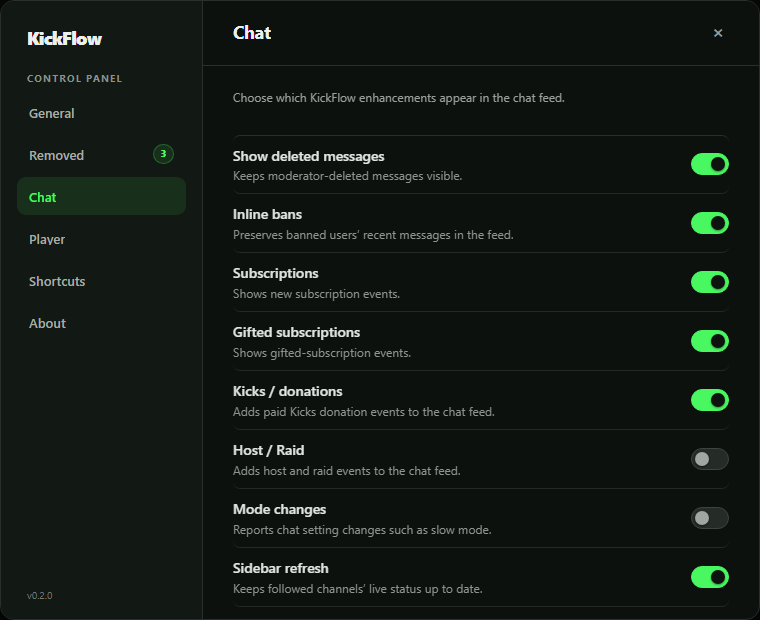
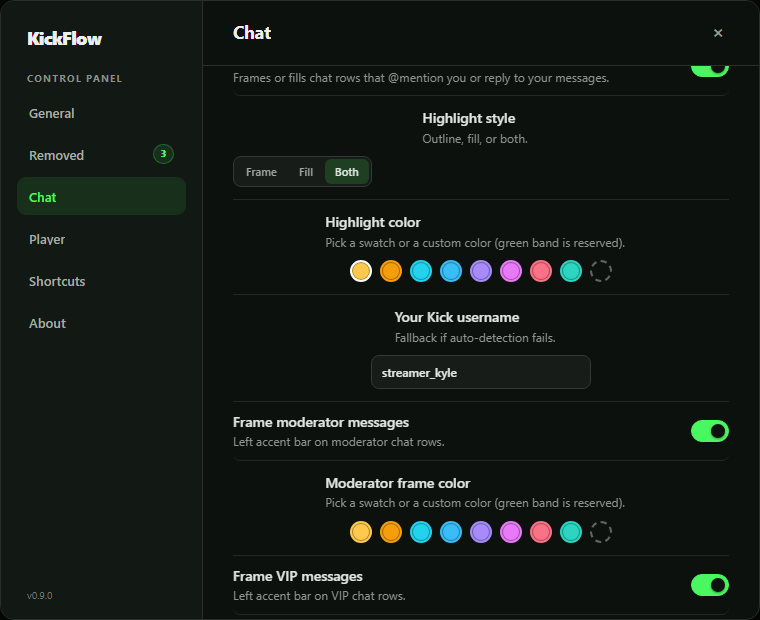
Docs: document chat highlights, refresh stale screenshots and version references
- New section covering the mention/reply/mod/VIP highlight feature, each layer independently toggleable and colorable, with a real offline-rendered screenshot of all eight states
- Regenerated Chat and About settings screenshots to show the new highlight controls and the correct version
- Removed hardcoded version numbers from prose; the release archive link now points to the evergreen Releases page instead of a per-version URL

diff --git a/README.md b/README.md
@@ -17,6 +17,8 @@ KickFlow keeps the conversation understandable when moderation removes content:
 - KickFlow-chat mode renders its own safe message list;
 - the Removed tab provides a session-scoped ledger of deleted, timed-out, and banned messages.
 
+On Kick's native Active Chatters list, KickFlow adds a removed-count badge when the session ledger contains moderation evidence for that user. Selecting the badge opens Removed filtered to that person; Kick's native row click and moderation controls remain unchanged.
+
 ![Preserved messages and channel events in English](docs/screenshots/chat-preservation-and-events.png)
 
 _Offline component render of the production message renderer and CSS. All messages and identities are synthetic._
@@ -32,6 +34,8 @@ Compact system rows cover:
 - slow, followers-only, subscribers-only, and emotes-only mode changes.
 
 Bulk gifts show the first three known recipients and an **and N more** control. Selecting it expands every known recipient in place. Usernames and other event values are inserted as text, never as HTML.
+
+System-event senders and gift recipients use distinct colors and open the same profile cards as chat usernames. KickFlow reuses a known session chat color when available and otherwise assigns a deterministic palette color.
 
 ![Gift recipients before expansion](docs/screenshots/gift-recipients-collapsed.png)
 
@@ -50,6 +54,18 @@ KickFlow also preserves space for Kick's native event stack so native pinned mes
 The custom message renderer supports Kick emotes, mentions, web links, replies, role badges, subscriber badges, and user colors. It validates image and link destinations, renders untrusted values through DOM text APIs, and opens same-origin links without letting Kick's page router replace the current view.
 
 Selecting a username opens a draggable profile card with the user's relationship details, badges, follower count, profile metadata, and a safe new-tab link. Middle-click and modified-click profile navigation are supported.
+
+Reply previews preserve emotes and can be selected to scroll to the original message. If the original has left KickFlow's rendered chat window, the preview gives a brief miss indication. In KickFlow-chat mode, message spacing, timestamp visibility, font and emote scaling, and badge geometry follow Kick's native presentation settings.
+
+## Personal and role highlights
+
+KickFlow can highlight chat rows that @mention the owner or reply to the owner's messages. A manual Kick username is available when owner identity cannot be detected automatically.
+
+Each layer is independently controlled: the personal mention/reply highlight, moderator frame, and VIP frame each have their own on/off switch and their own color, selected from curated swatches or a guarded custom picker (defaults: amber for personal, teal for moderator, pink for VIP). The personal layer also has its own frame, fill, or combined style. Role accents remain visible when layers overlap, while the existing green reply-jump flash keeps priority over the personal outline.
+
+![Mention, reply, moderator, and VIP chat highlights](docs/screenshots/mention-mod-vip-highlights.png)
+
+_Offline component render of the production message renderer, highlight resolver, and CSS with synthetic identities and chat content._
 
 ## Live player tools
 
@@ -88,7 +104,7 @@ _Offline component render of the production Removed tab with synthetic moderatio
 
 ### Chat
 
-Chat controls deleted-message preservation, inline bans, subscriptions, gifted subscriptions, Kicks, host and raid events, mode changes, and sidebar refresh.
+Chat controls deleted-message preservation, inline bans, subscriptions, gifted subscriptions, Kicks, host and raid events, mode changes, sidebar refresh, Active Chatters evidence badges, and the independently configurable personal, moderator, and VIP highlights.
 
 ![Chat feature settings](docs/screenshots/settings-chat.png)
 
@@ -116,7 +132,7 @@ About reports the installed KickFlow version, extension platform, and applicatio
 
 ![About and version information](docs/screenshots/settings-about.png)
 
-_Offline component render of the production About tab, version 0.2.0._
+_Offline component render of the production About tab._
 
 ## Default hotkeys
 
@@ -143,7 +159,7 @@ The extension popup mirrors the active tab's status, counters, chat and player f
 
 ### Release archive
 
-1. Download [`kickflow-v0.2.0.zip`](https://github.com/ydbilgin/kickflow/releases/download/v0.2.0/kickflow-v0.2.0.zip).
+1. Download the latest release archive from the [Releases page](https://github.com/ydbilgin/kickflow/releases/latest).
 2. Extract the archive.
 3. Open `chrome://extensions` and enable **Developer mode**.
 4. Choose **Load unpacked** and select the extracted folder containing `manifest.json` and `dist/`.